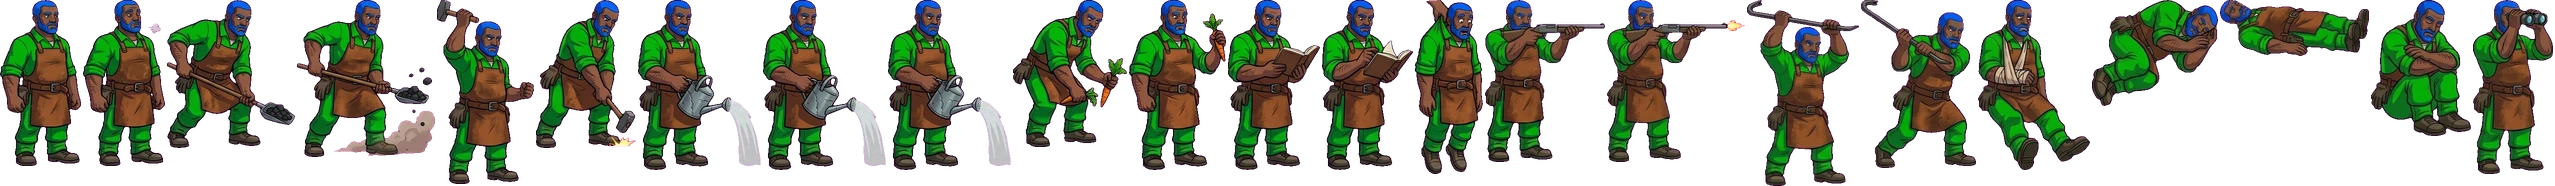
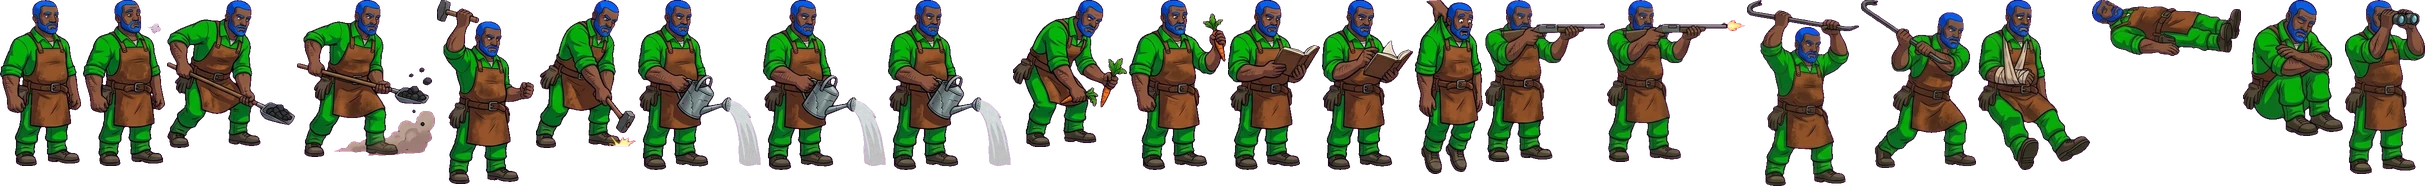
Last Loop 0.24.2 : le mécanicien dort allongé
Claude-Session: https://claude.ai/code/session_01CU6W9sdeW2S5i8MCgkV8Yw

diff --git a/sw.js b/sw.js
@@ -1,7 +1,7 @@
-// Last Loop : service worker (généré à chaque mise en ligne, version 0.24.1).
+// Last Loop : service worker (généré à chaque mise en ligne, version 0.24.2).
 // Pages, code et styles : réseau d'abord (les mises à jour arrivent tout de suite), cache si hors ligne.
 // Images : cache d'abord, rafraîchies en fond. Musiques : gardées en cache à la première écoute.
-const VERSION = '0.24.1';
+const VERSION = '0.24.2';
 const CODE = 'lastloop-code-' + VERSION;
 const MEDIA = 'lastloop-media';
 const FILES = [ "./", "index.html", "manifest.webmanifest", "css/style.css", "js/main.js", "js/ui/abilities.js", "js/ui/balancePanel.js", "js/ui/campPanel.js", "js/ui/crewbar.js", "js/ui/debug.js", "js/ui/dragState.js", "js/ui/dragdrop.js", "js/ui/eventCard.js", "js/ui/gearUI.js", "js/ui/hud.js", "js/ui/icons.js", "js/ui/logPanel.js", "js/ui/mapPanel.js", "js/ui/menu.js", "js/ui/modal.js", "js/ui/panels.js", "js/ui/researchPanel.js", "js/ui/sceneInput.js", "js/ui/sheets.js", "js/ui/stationPanel.js", "js/ui/subtabs.js", "js/ui/summary.js", "js/ui/switchboard.js", "js/ui/toasts.js", "js/ui/trainPanel.js", "js/ui/tutorial.js", "js/ui/zoneUI.js", "js/audio/music.js", "js/audio/sound.js", "js/audio/wire.js", "js/sim/build.js", "js/sim/caboose.js", "js/sim/camp.js", "js/sim/combat.js", "js/sim/crew.js", "js/sim/defense.js", "js/sim/depot.js", "js/sim/energy.js", "js/sim/equipment.js", "js/sim/events.js", "js/sim/incursion.js", "js/sim/log.js", "js/sim/objectives.js", "js/sim/repair.js", "js/sim/research.js", "js/sim/route.js", "js/sim/simulate.js", "js/sim/station.js", "js/sim/world.js", "js/sim/zones.js", "js/render/assets.js", "js/render/camera.js", "js/render/crewLayer.js", "js/render/crewSprites.js", "js/render/enemies.js", "js/render/floaters.js", "js/render/landscape.js", "js/render/minimap.js", "js/render/mip.js", "js/render/parallax.js", "js/render/puppets.js", "js/render/scene.js", "js/render/sites.js", "js/render/train.js", "js/data/assets.js", "js/data/backgrounds.js", "js/data/balance.js", "js/data/build.js", "js/data/circuits.js", "js/data/config.js", "js/data/crewSprites.js", "js/data/enemies.js", "js/data/enemySprites.js", "js/data/events.js", "js/data/items.js", "js/data/landscape.js", "js/data/names.js", "js/data/objectives.js", "js/data/patchnotes.fr.js", "js/data/research.js", "js/data/sites.js", "js/data/sprites.js", "js/data/stations.js", "js/data/texts.fr.js", "js/data/wagons.js", "js/data/zones.js", "js/core/bus.js", "js/core/i18n.js", "js/core/loop.js", "js/core/rng.js", "js/core/save.js", "js/core/settings.js", "js/core/state.js", "assets/img/autoturret_head_0.webp", "assets/img/autoturret_head_1.webp", "assets/img/autoturret_head_2.webp", "assets/img/bg_c1_far.webp", "assets/img/bg_c1_mid.webp", "assets/img/bg_c1_near.webp", "assets/img/bogie.webp", "assets/img/camp_nomads_0.webp", "assets/img/camp_nomads_1.webp", "assets/img/camp_outpost_0.webp", "assets/img/camp_outpost_1.webp", "assets/img/camp_raiders_0.webp", "assets/img/camp_raiders_1.webp", "assets/img/camp_village_0.webp", "assets/img/camp_village_1.webp", "assets/img/coupler.webp", "assets/img/crew_cultiv_f.webp", "assets/img/crew_cultiv_f_m.webp", "assets/img/crew_cultiv_h.webp", "assets/img/crew_cultiv_h_m.webp", "assets/img/crew_guet_f.webp", "assets/img/crew_guet_f_m.webp", "assets/img/crew_guet_h.webp", "assets/img/crew_guet_h_m.webp", "assets/img/crew_mecano_f.webp", "assets/img/crew_mecano_f_m.webp", "assets/img/crew_mecano_h.webp", "assets/img/crew_mecano_h_m.webp", "assets/img/crew_savant_f.webp", "assets/img/crew_savant_f_m.webp", "assets/img/crew_savant_h.webp", "assets/img/crew_savant_h_m.webp", "assets/img/deco_barn.webp", "assets/img/deco_car.webp", "assets/img/deco_fence.webp", "assets/img/deco_house.webp", "assets/img/deco_pylon.webp", "assets/img/deco_rocks.webp", "assets/img/deco_tower.webp", "assets/img/deco_tractor.webp", "assets/img/deco_tree.webp", "assets/img/deco_windpump.webp", "assets/img/en_biker.webp", "assets/img/en_boss_c1.webp", "assets/img/en_brute.webp", "assets/img/en_militia.webp", "assets/img/en_runner.webp", "assets/img/enemy_drone.webp", "assets/img/ev_convoy.webp", "assets/img/ev_epidemic.webp", "assets/img/ev_map.webp", "assets/img/ev_mechanic.webp", "assets/img/ev_merchant.webp", "assets/img/ev_overheat.webp", "assets/img/ev_rail.webp", "assets/img/ev_storm.webp", "assets/img/ev_survivor.webp", "assets/img/ev_warehouse.webp", "assets/img/flag.webp", "assets/img/gus_0.webp", "assets/img/gus_1.webp", "assets/img/gus_2.webp", "assets/img/ico_ammo.webp", "assets/img/ico_auto.webp", "assets/img/ico_barrage.webp", "assets/img/ico_bolt.webp", "assets/img/ico_clock.webp", "assets/img/ico_com.webp", "assets/img/ico_crew.webp", "assets/img/ico_food.webp", "assets/img/ico_fuel.webp", "assets/img/ico_heart.webp", "assets/img/ico_keys.webp", "assets/img/ico_know.webp", "assets/img/ico_lock.webp", "assets/img/ico_log.webp", "assets/img/ico_map.webp", "assets/img/ico_mec.webp", "assets/img/ico_parts.webp", "assets/img/ico_question.webp", "assets/img/ico_research.webp", "assets/img/ico_sav.webp", "assets/img/ico_scrap.webp", "assets/img/ico_shield.webp", "assets/img/ico_site_camp.webp", "assets/img/ico_site_depot.webp", "assets/img/ico_site_field.webp", "assets/img/ico_site_forest.webp", "assets/img/ico_site_fortress.webp", "assets/img/ico_site_junkyard.webp", "assets/img/ico_site_mine.webp", "assets/img/ico_site_ruins.webp", "assets/img/ico_site_station.webp", "assets/img/ico_skull.webp", "assets/img/ico_smile.webp", "assets/img/ico_star.webp", "assets/img/ico_steam.webp", "assets/img/ico_target.webp", "assets/img/ico_ter.webp", "assets/img/ico_trade.webp", "assets/img/ico_train.webp", "assets/img/ico_wrench.webp", "assets/img/ico_zoom.webp", "assets/img/loco_t1.webp", "assets/img/loco_t2.webp", "assets/img/roof_attic.webp", "assets/img/roof_autoturret.webp", "assets/img/roof_berths.webp", "assets/img/signal_0.webp", "assets/img/signal_1.webp", "assets/img/signal_2.webp", "assets/img/site_convoy.webp", "assets/img/site_depot.webp", "assets/img/site_field.webp", "assets/img/site_field_low.webp", "assets/img/site_forest.webp", "assets/img/site_forest_low.webp", "assets/img/site_fortress.webp", "assets/img/site_junkyard.webp", "assets/img/site_junkyard_low.webp", "assets/img/site_mine.webp", "assets/img/site_mine_low.webp", "assets/img/site_refinery.webp", "assets/img/site_ruins.webp", "assets/img/site_station.webp", "assets/img/site_traverse.webp", "assets/img/studio_logo.webp", "assets/img/title_keyart.webp", "assets/img/turret_head_0.webp", "assets/img/turret_head_1.webp", "assets/img/turret_head_2.webp", "assets/img/wagon_boiler.webp", "assets/img/wagon_bunk.webp", "assets/img/wagon_caboose.webp", "assets/img/wagon_caboose_breached.webp", "assets/img/wagon_cargo.webp", "assets/img/wagon_foundry.webp", "assets/img/wagon_gatherer.webp", "assets/img/wagon_greenhouse.webp", "assets/img/wagon_lab.webp", "assets/img/wagon_turret.webp", "assets/img/wagon_turret_bare.webp", "assets/img/wagon_workshop.webp", "assets/img/wheel_driver.webp", "assets/img/wheel_wagon.webp", "assets/icons/icon-180.png", "assets/icons/icon-192.png", "assets/icons/icon-512.png", "assets/icons/icon-64.png", "assets/icons/maskable-512.png" ];

diff --git a/js/data/crewSprites.js b/js/data/crewSprites.js
@@ -7,7 +7,7 @@ export const CREW_SPRITES = {
   guet_f: {"head":[44.5,0,61.9],"rects":[[0,0,72,172,45.5,172.0],[74,0,74,172,46.8,172.0],[150,0,115,162,39.5,162.5],[267,0,122,162,44.8,162.0],[391,0,90,183,49.8,183.0],[483,0,98,165,44.0,165.0],[583,0,132,176,43.8,175.5],[717,0,132,176,43.8,175.5],[851,0,132,176,43.8,175.5],[985,0,90,156,36.8,156.0],[1077,0,90,169,34.8,169.0],[1169,0,84,176,41.8,175.5],[1255,0,86,177,44.0,176.5],[1343,0,72,192,38.8,192.0],[1417,0,134,171,58.0,171.0],[1553,0,150,170,52.8,170.0],[1705,0,81,180,39.0,179.5],[1788,0,126,162,40.2,162.5],[1916,0,122,150,83.5,150.5],[2040,0,146,57,73.0,57.1],[2188,0,180,134,89.5,134.0],[2370,0,88,117,66.2,117.0],[2460,0,81,181,46.2,178.5]],"poses":{"idle":[0,1],"shovel":[2,3],"hammer":[4,5],"water":[6,7,8],"sort":[9,10],"read":[11,12],"carry":[13],"aim":[14],"shoot":[14,15],"strike":[16,17],"injured":[18],"sleep":[19],"critical":[20],"doze":[21],"watch":[22]},"standH":172,"cloth":[0.792,0.525],"hair":[0.909,0.698]},
   guet_h: {"head":[32.0,0,62.6],"rects":[[0,0,58,174,32.2,174.0],[60,0,59,174,32.8,174.0],[121,0,115,166,39.8,165.5],[238,0,117,166,40.0,166.0],[357,0,84,183,42.8,183.0],[443,0,96,168,44.0,168.5],[541,0,122,180,32.5,180.0],[665,0,122,180,32.5,180.0],[789,0,122,180,32.5,180.0],[913,0,88,162,35.5,162.0],[1003,0,89,174,33.0,173.5],[1094,0,69,180,27.0,180.0],[1165,0,72,180,31.0,180.0],[1239,0,61,182,33.2,181.5],[1302,0,104,170,26.2,170.0],[1408,0,126,170,26.2,170.0],[1536,0,98,183,47.2,183.0],[1636,0,92,165,47.2,165.0],[1730,0,107,154,65.8,154.5],[1839,0,148,50,73.9,50.4],[1989,0,144,136,50.0,136.5],[2135,0,73,122,49.8,122.0],[2210,0,64,182,27.5,177.0]],"poses":{"idle":[0,1],"shovel":[2,3],"hammer":[4,5],"water":[6,7,8],"sort":[9,10],"read":[11,12],"carry":[13],"aim":[14],"shoot":[14,15],"strike":[16,17],"injured":[18],"sleep":[19],"critical":[20],"doze":[21],"watch":[22]},"standH":174,"cloth":[0.861,0.541],"hair":[0.898,0.667]},
   mecano_f: {"head":[38.0,0,63.4],"rects":[[0,0,65,176,37.8,176.5],[67,0,66,176,39.5,176.5],[135,0,115,166,39.8,166.0],[252,0,116,166,40.0,165.5],[370,0,87,183,47.2,182.5],[459,0,104,169,44.2,168.5],[565,0,123,180,41.0,180.0],[690,0,123,180,41.0,180.0],[815,0,123,180,41.0,180.0],[940,0,92,160,36.0,159.0],[1034,0,89,172,33.5,172.5],[1125,0,71,180,29.2,180.0],[1198,0,76,180,34.0,180.0],[1276,0,109,175,27.8,175.0],[1387,0,121,173,39.2,172.5],[1510,0,84,184,45.0,183.0],[1596,0,110,166,31.2,165.5],[1708,0,80,180,32.2,179.5],[1790,0,110,141,67.5,141.0],[1902,0,136,46,67.8,45.5],[2040,0,78,127,42.2,126.5],[2120,0,67,176,12.9,176.0]],"poses":{"idle":[0,1],"shovel":[2,3],"hammer":[4,5],"water":[6,7,8],"sort":[9,10],"read":[11,12],"aim":[13],"shoot":[13,14],"strike":[15,16],"carry":[17],"injured":[18],"sleep":[19],"critical":[19],"doze":[20],"watch":[21]},"standH":176,"cloth":[0.897,0.643],"hair":[0.923,0.745]},
-  mecano_h: {"head":[48.5,0,59.8],"rects":[[0,0,81,166,47.8,166.5],[83,0,82,166,48.2,166.0],[167,0,128,148,47.8,148.0],[297,0,138,157,17.2,157.0],[437,0,97,184,46.8,183.5],[536,0,100,148,10.0,147.5],[638,0,123,170,64.5,170.0],[763,0,123,170,64.5,170.0],[888,0,123,170,64.5,170.0],[1013,0,114,147,48.5,147.0],[1129,0,97,170,46.0,170.0],[1228,0,92,170,39.5,169.5],[1322,0,91,170,38.0,169.5],[1415,0,68,174,31.5,174.5],[1485,0,120,162,35.2,162.0],[1607,0,138,162,38.0,162.0],[1747,0,112,186,58.2,185.5],[1861,0,115,168,64.8,168.0],[1978,0,112,170,47.8,169.5],[2092,0,126,106,13.8,106.0],[2220,0,149,56,74.2,55.5],[2371,0,100,136,71.5,136.5],[2473,0,80,174,37.5,174.0]],"poses":{"idle":[0,1],"shovel":[2,3],"hammer":[4,5],"water":[6,7,8],"sort":[9,10],"read":[11,12],"carry":[13],"aim":[14],"shoot":[14,15],"strike":[16,17],"injured":[18],"sleep":[19],"critical":[20],"doze":[21],"watch":[22]},"standH":166,"cloth":[0.922,0.424],"hair":[0.923,0.647]},
+  mecano_h: {"head":[48.5,0,59.8],"rects":[[0,0,81,166,47.8,166.5],[83,0,82,166,48.2,166.0],[167,0,128,148,47.8,148.0],[297,0,138,157,17.2,157.0],[437,0,97,184,46.8,183.5],[536,0,100,148,10.0,147.5],[638,0,123,170,64.5,170.0],[763,0,123,170,64.5,170.0],[888,0,123,170,64.5,170.0],[1013,0,114,147,48.5,147.0],[1129,0,97,170,46.0,170.0],[1228,0,92,170,39.5,169.5],[1322,0,91,170,38.0,169.5],[1415,0,68,174,31.5,174.5],[1485,0,120,162,35.2,162.0],[1607,0,138,162,38.0,162.0],[1747,0,112,186,58.2,185.5],[1861,0,115,168,64.8,168.0],[1978,0,112,170,47.8,169.5],[2092,0,149,56,74.2,55.5],[2243,0,100,136,71.5,136.5],[2345,0,80,174,37.5,174.0]],"poses":{"idle":[0,1],"shovel":[2,3],"hammer":[4,5],"water":[6,7,8],"sort":[9,10],"read":[11,12],"carry":[13],"aim":[14],"shoot":[14,15],"strike":[16,17],"injured":[18],"sleep":[19],"critical":[19],"doze":[20],"watch":[21]},"standH":166,"cloth":[0.922,0.424],"hair":[0.923,0.647]},
   savant_f: {"head":[34.0,0,63.7],"rects":[[0,0,56,177,32.2,177.0],[58,0,68,178,36.0,177.5],[128,0,118,170,47.0,169.5],[248,0,133,172,48.2,172.0],[383,0,94,169,47.8,169.0],[479,0,107,168,54.8,167.5],[588,0,114,182,34.8,182.5],[704,0,114,182,34.8,182.5],[820,0,114,182,34.8,182.5],[936,0,100,158,37.0,158.0],[1038,0,83,184,36.2,184.5],[1123,0,86,183,34.8,183.0],[1211,0,92,173,38.8,173.0],[1305,0,78,187,37.0,186.0],[1385,0,130,175,30.8,175.0],[1517,0,160,176,33.8,175.5],[1679,0,88,182,50.2,182.5],[1769,0,106,167,60.2,167.0],[1877,0,124,170,76.2,170.0],[2003,0,150,45,75.2,44.8],[2155,0,156,110,77.8,106.5],[2313,0,93,121,21.0,121.0],[2408,0,74,186,35.5,182.5]],"poses":{"idle":[0,1],"shovel":[2,3],"hammer":[4,5],"water":[6,7,8],"sort":[9,10],"read":[11,12],"carry":[13],"aim":[14],"shoot":[14,15],"strike":[16,17],"injured":[18],"sleep":[19],"critical":[20],"doze":[21],"watch":[22]},"standH":177,"cloth":[0.791,0.576],"hair":[0.809,0.682]},
   savant_h: {"head":[35.0,0,62.6],"rects":[[0,0,60,174,36.5,173.5],[62,0,60,174,36.0,174.5],[124,0,120,140,43.8,139.5],[246,0,118,167,39.5,167.0],[366,0,83,184,41.5,184.5],[451,0,101,156,47.0,156.0],[554,0,118,177,61.0,177.0],[674,0,118,177,61.0,177.0],[794,0,118,177,61.0,177.0],[914,0,102,154,41.0,154.5],[1018,0,94,178,38.5,178.0],[1114,0,84,177,37.2,177.0],[1200,0,88,177,37.8,177.0],[1290,0,81,179,38.2,179.0],[1373,0,128,168,35.0,168.0],[1503,0,150,168,36.8,168.0],[1655,0,94,180,56.8,180.5],[1751,0,110,158,64.2,158.0],[1863,0,118,138,59.0,138.5],[1983,0,148,46,73.8,46.2],[2133,0,148,57,73.8,56.8],[2283,0,106,106,62.2,106.0],[2391,0,74,176,37.2,176.5]],"poses":{"idle":[0,1],"shovel":[2,3],"hammer":[4,5],"water":[6,7,8],"sort":[9,10],"read":[11,12],"carry":[13],"aim":[14],"shoot":[14,15],"strike":[16,17],"injured":[18],"sleep":[19],"critical":[20],"doze":[21],"watch":[22]},"standH":174,"cloth":[0.783,0.592],"hair":[0.611,0.655]},
 };

diff --git a/js/data/patchnotes.fr.js b/js/data/patchnotes.fr.js
@@ -1,6 +1,9 @@
 // Notes de mise à jour montrées aux joueurs (menu « Nouveautés », et une fois après chaque mise à jour).
 // Les plus récentes en premier ; courtes, dans la langue du jeu. Le détail technique est dans CHANGELOG.md.
 export const PATCH_NOTES = [
+  { v: '0.24.2', title: 'Mécanos au lit', items: [
+    'Le mécanicien dort enfin allongé dans son lit, au lieu de rester accroupi au-dessus.'
+  ] },
   { v: '0.24.1', title: 'Tirs plus propres', items: [
     'Plus de trait jaune pendant les tirs : il partait souvent du mauvais endroit.'
   ] },

diff --git a/js/data/config.js b/js/data/config.js
@@ -2,7 +2,7 @@
 export const CONFIG = {
   // 'artifact' pendant le développement (artefact Claude), 'pages' une fois sur GitHub Pages
   TARGET: 'artifact',
-  VERSION: '0.24.1',
+  VERSION: '0.24.2',
   SAVE_KEY: 'loopexpress.save',
   SETTINGS_KEY: 'loopexpress.settings',
   HUB_URL: 'https://keismey.github.io/',

diff --git a/CHANGELOG.md b/CHANGELOG.md
@@ -1,5 +1,11 @@
 # Journal des versions
 
+## 0.24.2 — Mécanos au lit
+
+- **Sommeil du mécanicien** : sa pose de sommeil était une image accroupie (tête dans les mains), qui flottait
+  au-dessus des lits. Il dort maintenant allongé, comme la mécanicienne. Le col de son vêtement, resté vert sur cette
+  image, prend la couleur de sa tenue (`clothMin` par planche dans build_crew.py).
+
 ## 0.24.1 — Tirs plus propres
 
 - **Combat** : retrait du trait jaune des tirs (tourelles et survivants) et de son point d'impact. Il partait du corps
